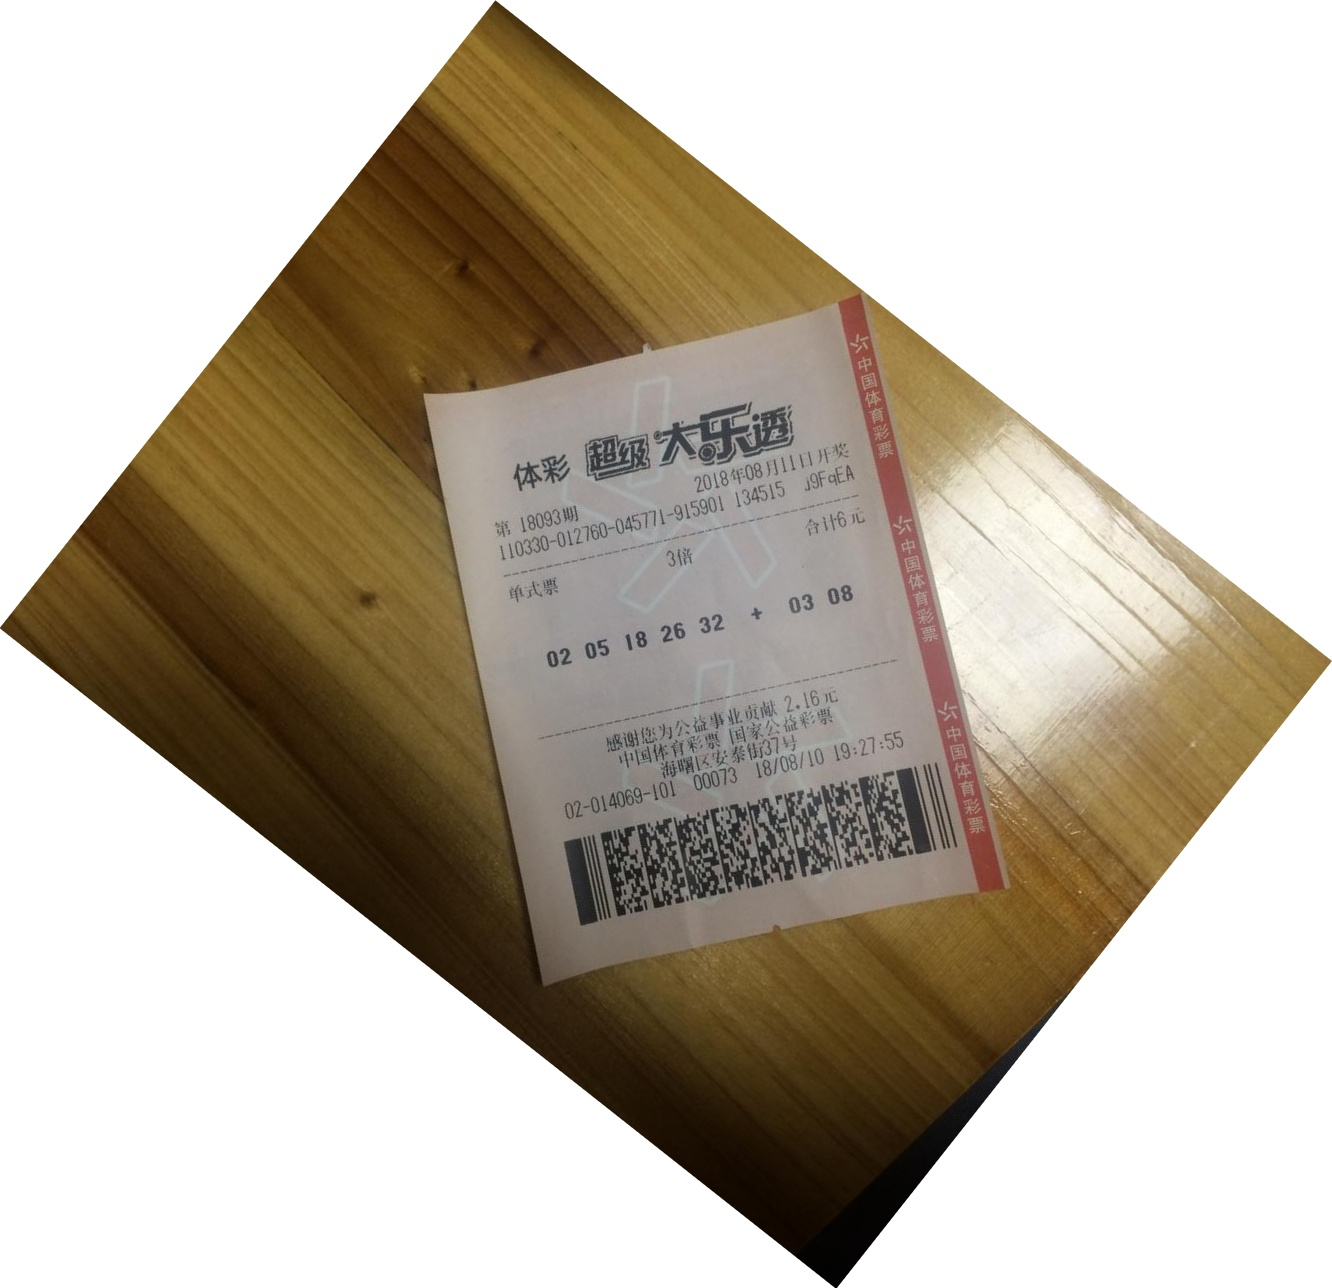
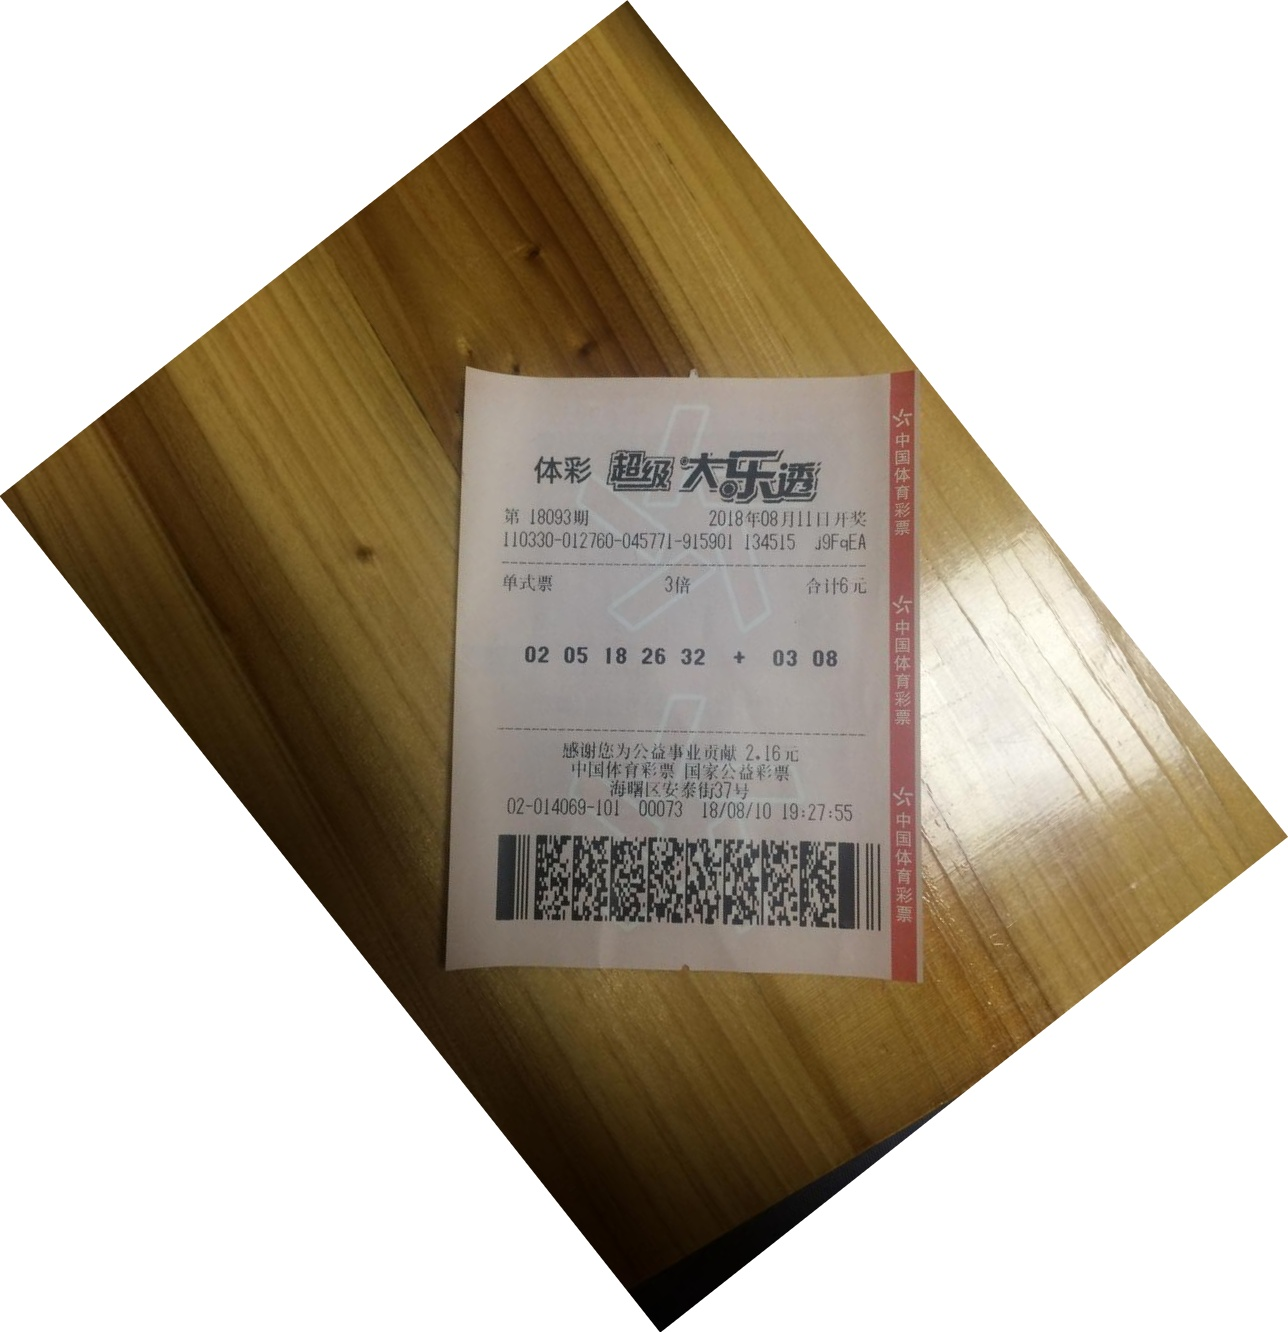
2

Changed region(s): [[0.0, 0.0, 1.0, 1.0], [0.2795, 0.7143, 0.3106, 0.7453], [0.2484, 0.6832, 0.2795, 0.7143]]

diff --git a/2.py b/2.py
@@ -46,7 +46,7 @@ print(x, y, w, h, rate)
 if abs(rate) > 5:
     height, width = img.shape[:2]
 
-    degree = -rate
+    degree = (90+rate)
     # 旋转后的尺寸
     heightNew = int(width * fabs(sin(radians(degree))) + height * fabs(cos(radians(degree))))
     widthNew = int(height * fabs(sin(radians(degree))) + width * fabs(cos(radians(degree))))
@@ -60,15 +60,49 @@ if abs(rate) > 5:
     imgRotation = cv2.warpAffine(img, matRotation, (widthNew, heightNew), borderValue=(255, 255, 255))
 
     cv2.imwrite('D:/PycharmProjects/OcrDemo/2/1.jpg', imgRotation)
+    img = imgRotation
+
+# 提取彩票中的 红色条带
+hsv = cv2.cvtColor(img, cv2.COLOR_BGR2HSV)
+lower_red = np.array([0, 100, 100])  # red
+upper_red = np.array([10, 255, 255])
+red = cv2.inRange(hsv, lower_red, upper_red)
+
+# 查找边框  RETR_EXTERNAL外轮廓
+image, cnts, hierarchy = cv2.findContours(red, cv2.RETR_EXTERNAL, cv2.CHAIN_APPROX_SIMPLE)
+copyImg = img.copy()
+
+cv2.drawContours(copyImg, cnts, -1, (0, 0, 255), 3)
+cv2.imshow('img1', copyImg)
+
+# print(cnts)
+cntsJoin = ([])
+# cntsJoin.append(cnts[0][0])
+# print(cntsJoin)
+#
+
+cntsJoin = []
+
+for i in range(len(cnts)):
+    if len(cnts[i]) > 10:
+        for j in range(len(cnts[i])):
+            for k in range(len(cnts[i][j])):
+                (x0, y0) = cnts[i][j][k]
+                # print(x0, y0)
+                cntsJoin.append([x0, y0])
+
+print(cnts[0])
+print(cnts[1])
+
+cntsJoin1 = np.array([cntsJoin])
+print(cntsJoin1)
+[x, y], [w, h], rate = cv2.minAreaRect(cntsJoin1)
+
+print(x, y, w, h, rate)
 
 
 copyImg2 = img.copy()
-
-
 #cv2.drawContours(copyImg2, cntsJoin1, -1, (0, 0, 255), 3)
-
-
-
 cv2.rectangle(copyImg2, (int(x - w / 2), int(y - h / 2)), (int(x + w / 2), int(y + h / 2)), (0, 255, 0), 2)
 cv2.imshow('img2', copyImg2)
 
